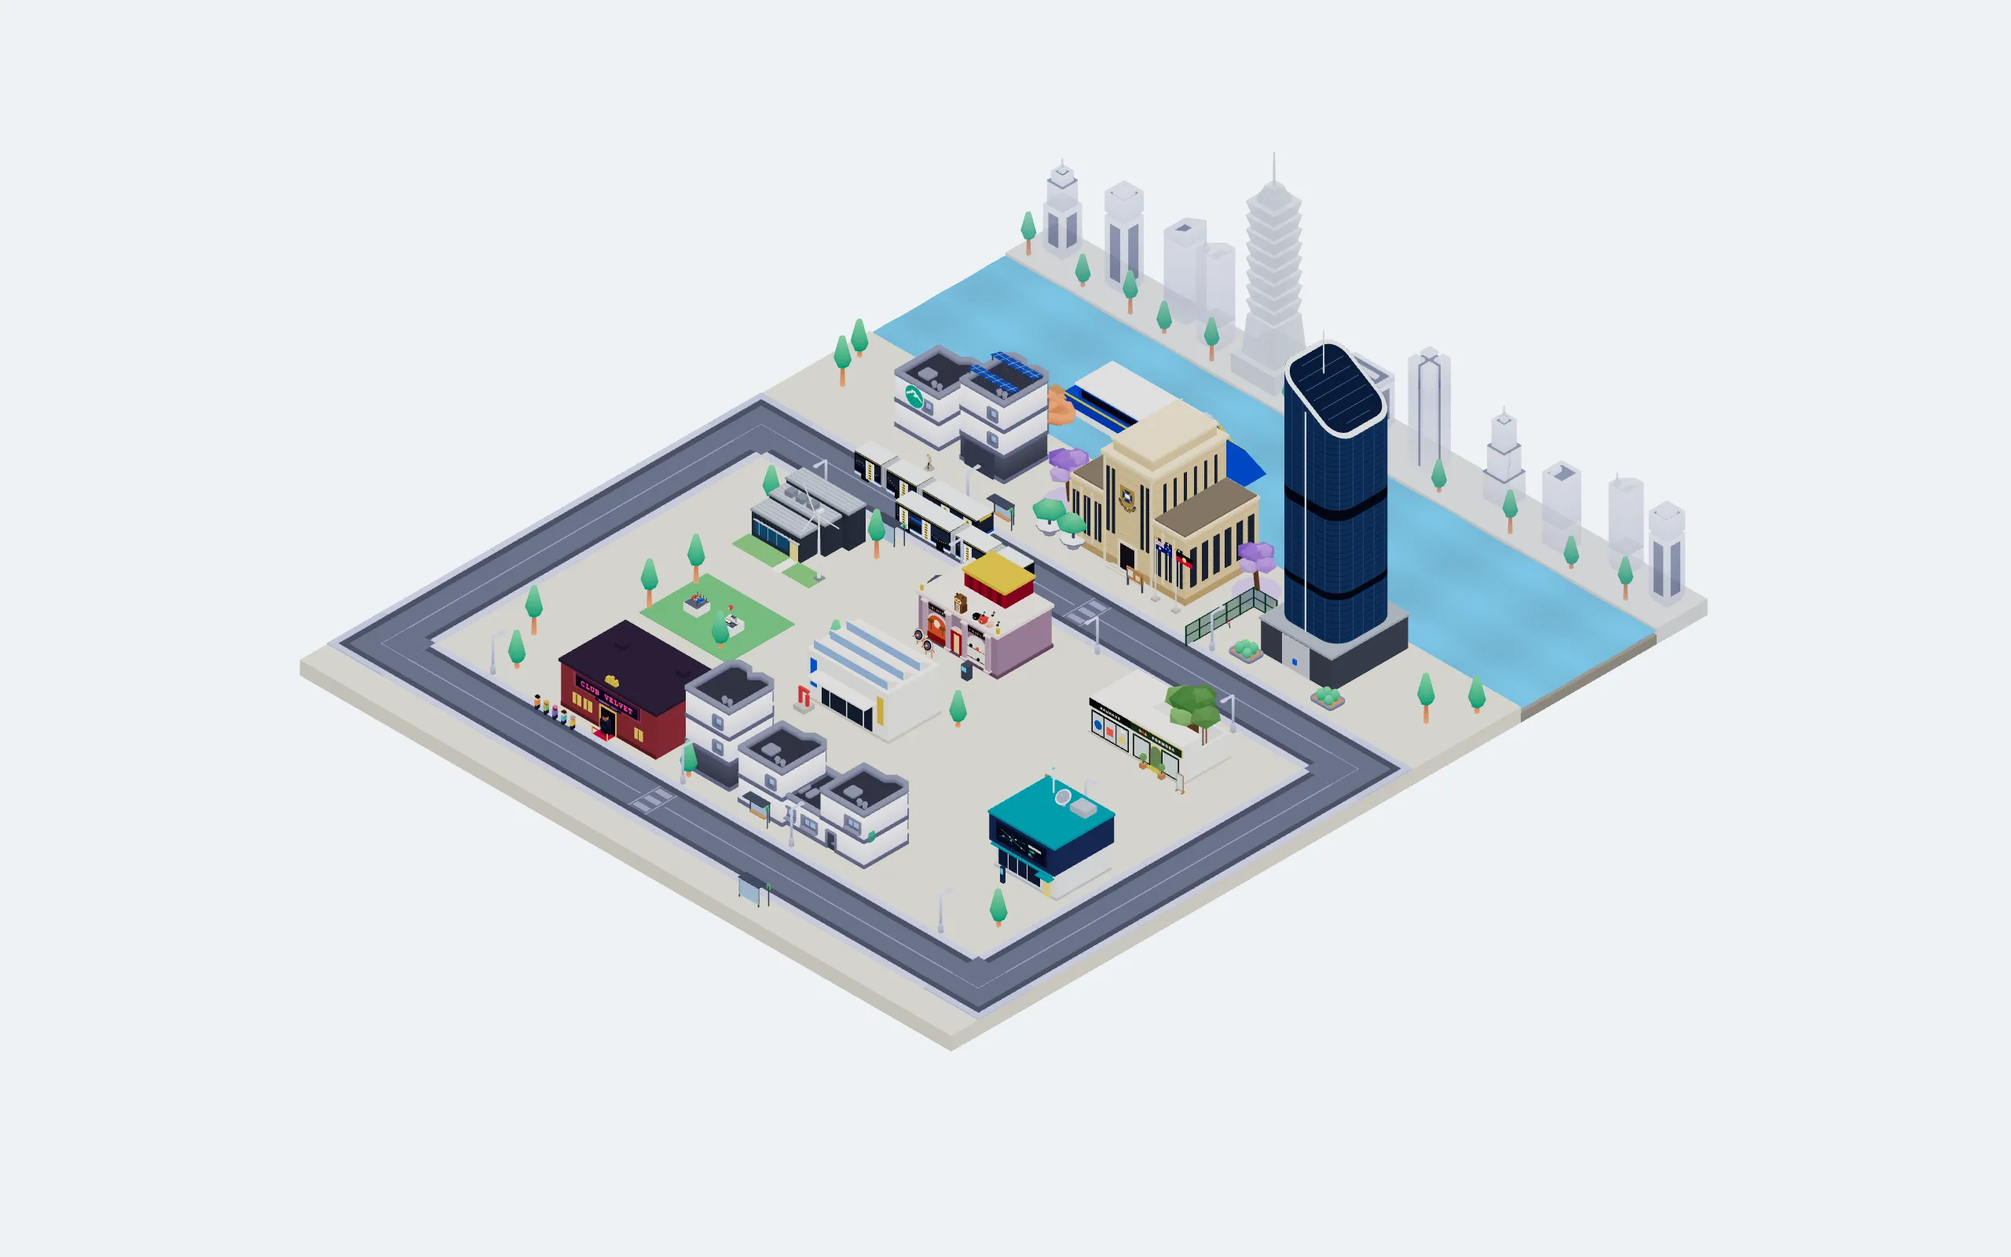
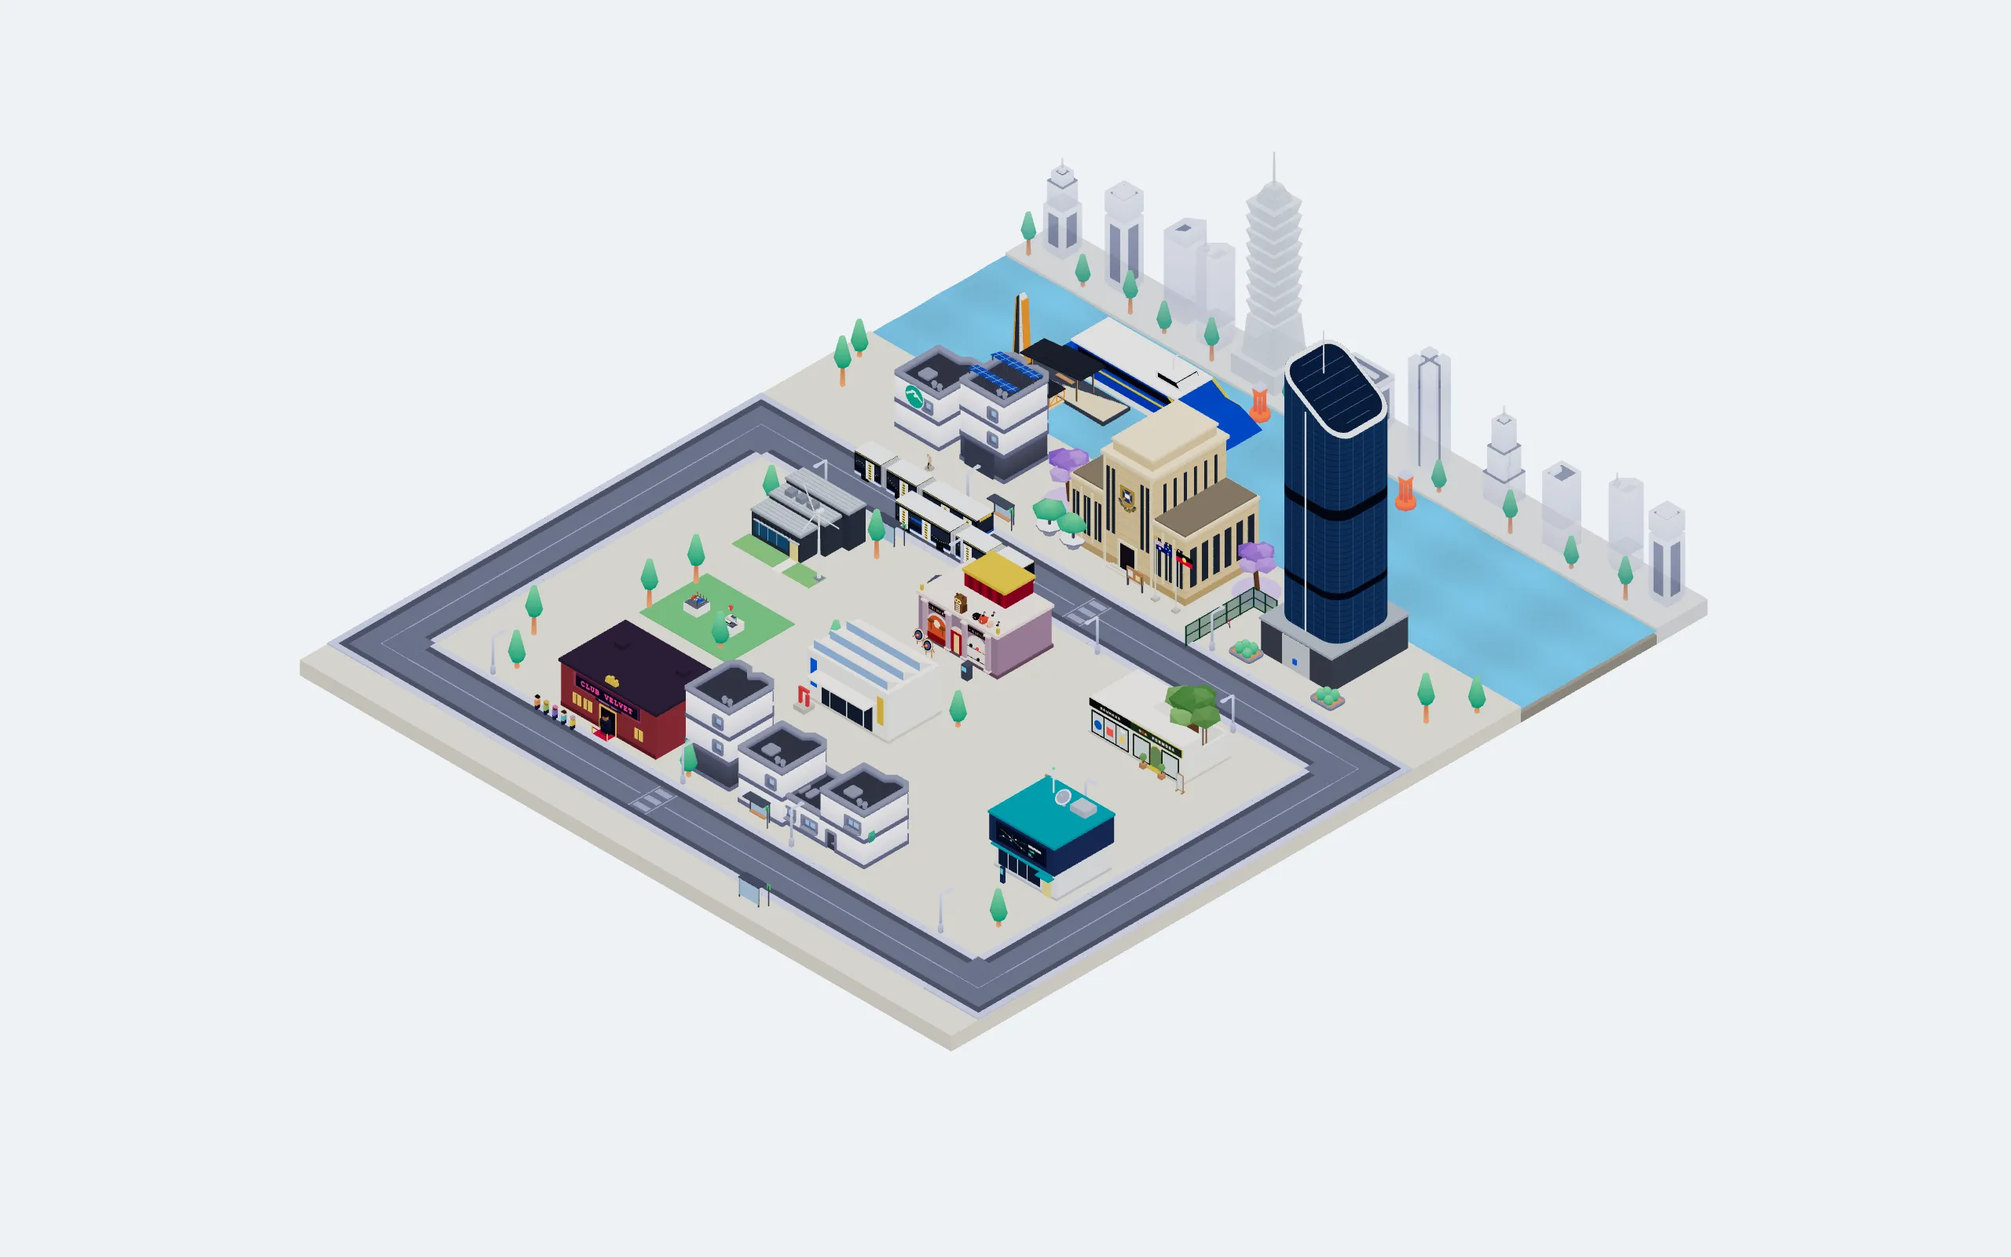
feat: replace the pier with a UQ St Lucia ferry terminal and stop the ferry sailing through it
The widened river left the pier tip inside the ferry's lane, so the hull passed through it on arrival. The terminal (gangway, pontoon, wing roof, lettered fin) is modelled on Steven's photograph, and the ferry now docks along its river side in a clear lane.

Changed region(s): [[0.5, 0.2188, 0.6562, 0.4062], [0.6875, 0.375, 0.7188, 0.4062]]

diff --git a/src/app/world/scene/FerryTerminal.tsx b/src/app/world/scene/FerryTerminal.tsx
@@ -1,0 +1,152 @@
+"use client";
+
+import { useMemo } from "react";
+import { BoxGeometry, CanvasTexture, ExtrudeGeometry, MeshBasicMaterial, SRGBColorSpace, Shape, Vector2, type BufferGeometry } from "three";
+import { TERMINAL } from "../placements";
+import { mergeParts, paint } from "./shading";
+import { withWorldShader } from "./worldShader";
+
+/**
+ * 1 · The ferry landing's terminal (WORLD.md §3): the UQ St Lucia CityCat terminal on the Brisbane
+ * River, from the photograph Steven chose on 26 Nov 2026, in place of the plain timber pier it was.
+ *
+ * What the photograph has, and so does this: a gangway from the bank, a truss of orange steel under
+ * a thin dark roof; a floating pontoon with a dark hull; a big dark wing of a roof over the pontoon,
+ * tilted up towards the downstream end, with a second plate on top of it; and a tall tapered fin at
+ * the far end, dark on one side and white on the other, with orange edges and the station's name in
+ * vertical letters ("UQ ST LUCIA"). Steven chose to show the name, as he chose the UQ crest (§4 rule 4).
+ *
+ * The ferry (Props.tsx) docks along the pontoon's river side, in a lane clear of it, so it no longer
+ * sails through anything. Steven can walk out along the gangway and onto the pontoon (walk.ts).
+ *
+ * Draw calls: one merged static mesh and the fin's lettering (on both faces).
+ */
+
+const C = {
+    hull: "#454b58",
+    deck: "#d9c9a8",
+    steel: "#ee8a2c",
+    roof: "#2b303b",
+    post: "#4b5161",
+    dark: "#3b414d",
+    light: "#eceff1",
+    wood: "#b9825a",
+};
+
+const box = (w: number, h: number, d: number, x: number, y: number, z: number, color: string) =>
+    paint(new BoxGeometry(w, h, d).translate(x, y, z), color);
+
+/** A profile in (x, y), extruded `depth` across z, centred on z = 0. */
+function prism(points: [number, number][], depth: number, color: string): BufferGeometry {
+    const geometry = new ExtrudeGeometry(new Shape(points.map(([x, y]) => new Vector2(x, y))), { depth, bevelEnabled: false });
+    geometry.translate(0, 0, -depth / 2);
+    return paint(geometry, color);
+}
+
+const FIN_H = 8.6;
+
+function parts(): BufferGeometry[] {
+    const { gangway: g, pontoon: p, pylon, roofX } = TERMINAL;
+    const out: BufferGeometry[] = [];
+
+    // The pontoon: a dark hull and a pale timber deck set a little inside it.
+    const pw = p.maxX - p.minX;
+    const pd = p.maxZ - p.minZ;
+    const pcx = (p.minX + p.maxX) / 2;
+    const pcz = (p.minZ + p.maxZ) / 2;
+    out.push(box(pw, 0.55, pd, pcx, -0.225, pcz, C.hull));
+    out.push(box(pw - 0.3, 0.1, pd - 0.3, pcx, 0, pcz, C.deck));
+
+    // The gangway from the bank: a deck, two steel trusses and a thin dark roof over them.
+    const len = g.maxZ - g.minZ;
+    const gcz = (g.minZ + g.maxZ) / 2;
+    out.push(box(g.w, 0.2, len, g.x, -0.05, gcz, C.deck));
+    const bays = 5;
+    const bay = len / bays;
+    for (const side of [-1, 1]) {
+        const tx = g.x + side * (g.w / 2 - 0.05);
+        out.push(box(0.1, 0.1, len, tx, 1.45, gcz, C.steel));
+        out.push(box(0.1, 0.1, len, tx, 0.3, gcz, C.steel));
+        for (let i = 0; i <= bays; i++) out.push(box(0.08, 1.15, 0.08, tx, 0.875, g.minZ + i * bay, C.steel));
+        for (let i = 0; i < bays; i++) {
+            const dy = 1.15;
+            const angle = Math.atan(bay / dy) * (i % 2 ? -1 : 1);
+            const diagonal = new BoxGeometry(0.07, Math.hypot(bay, dy), 0.07).rotateX(angle).translate(tx, 0.875, g.minZ + (i + 0.5) * bay);
+            out.push(paint(diagonal, C.steel));
+        }
+    }
+    out.push(box(g.w + 0.3, 0.08, len + 0.1, g.x, 1.6, gcz, C.roof));
+
+    // The wing roof over the pontoon, rising towards +x, on four posts, with a second plate above it.
+    const tilt = 0.1;
+    const rz = pcz;
+    const roofY = 3.1;
+    out.push(paint(new BoxGeometry(9, 0.16, 3.6).rotateZ(tilt).translate(roofX, roofY, rz), C.roof));
+    out.push(paint(new BoxGeometry(5.6, 0.12, 3.2).rotateZ(0.05).translate(roofX + 1.6, roofY + 0.65, rz), C.roof));
+    for (const dx of [-1.4, 1.4]) out.push(box(0.1, 0.45, 0.1, roofX + dx + 1.6, roofY + 0.4, rz, C.post));
+    for (const px of [-3.3, 3.3]) {
+        const top = roofY + px * Math.tan(tilt) - 0.1;
+        for (const dz of [-1.2, 1.2]) {
+            out.push(box(0.12, top - 0.05, 0.12, roofX + px, 0.05 + (top - 0.05) / 2, rz + dz, C.post));
+            out.push(box(0.05, top - 0.05, 0.05, roofX + px + 0.1, 0.05 + (top - 0.05) / 2, rz + dz, C.steel));
+        }
+    }
+    // A bench under it, facing the river.
+    out.push(box(2.4, 0.08, 0.5, roofX, 0.5, rz - 0.4, C.wood));
+    out.push(box(2.4, 0.4, 0.5, roofX, 0.25, rz - 0.4, C.post));
+
+    // The fin: dark on the left, white on the right, orange edges, a slanted top.
+    const { x, z } = pylon;
+    const fin = (points: [number, number][], depth: number, color: string) => prism(points, depth, color).translate(x, 0.05, z);
+    out.push(fin([[-0.9, 0], [0, 0], [0, FIN_H], [-0.45, FIN_H - 0.6]], 0.8, C.dark));
+    out.push(fin([[0, 0], [0.9, 0], [0.45, FIN_H - 0.6], [0, FIN_H]], 0.8, C.light));
+    out.push(fin([[-0.95, 0], [-0.78, 0], [-0.38, FIN_H - 0.65], [-0.5, FIN_H - 0.55]], 0.9, C.steel));
+    out.push(fin([[0.78, 0], [0.95, 0], [0.55, FIN_H - 0.65], [0.38, FIN_H - 0.55]], 0.9, C.steel));
+    return out;
+}
+
+/** "UQ ST LUCIA", reading downwards, dark on transparent. */
+function lettering(): CanvasTexture {
+    const c = document.createElement("canvas");
+    c.width = 96;
+    c.height = 1024;
+    const g = c.getContext("2d")!;
+    g.translate(48, 512);
+    g.rotate(Math.PI / 2);
+    g.fillStyle = "#3a3f4b";
+    g.font = '700 58px ui-sans-serif, system-ui, "Helvetica Neue", Arial, sans-serif';
+    g.textAlign = "center";
+    g.textBaseline = "middle";
+    const text = "UQ ST LUCIA";
+    const spacing = 14;
+    const widths = [...text].map((ch) => g.measureText(ch).width);
+    let at = -(widths.reduce((a, b) => a + b, 0) + spacing * (text.length - 1)) / 2;
+    g.textAlign = "left";
+    [...text].forEach((ch, i) => {
+        g.fillText(ch, at, 0);
+        at += widths[i] + spacing;
+    });
+    const t = new CanvasTexture(c);
+    t.colorSpace = SRGBColorSpace;
+    t.anisotropy = 4;
+    return t;
+}
+
+export default function FerryTerminal() {
+    const statics = useMemo(() => mergeParts(parts()), []);
+    const material = useMemo(() => withWorldShader(new MeshBasicMaterial({ vertexColors: true })), []);
+    const letters = useMemo(() => withWorldShader(new MeshBasicMaterial({ map: lettering(), transparent: true, alphaTest: 0.3 })), []);
+    const { x, z } = TERMINAL.pylon;
+    return (
+        <>
+            <mesh geometry={statics} material={material} raycast={() => null} />
+            <mesh position={[x + 0.27, 4.35, z + 0.45]} material={letters} raycast={() => null}>
+                <planeGeometry args={[0.34, 3.6]} />
+            </mesh>
+            {/* The same name on the river side, for when the view is turned round: turned about the fin, it reads the right way. */}
+            <mesh position={[x - 0.27, 4.35, z - 0.45]} rotation-y={Math.PI} material={letters} raycast={() => null}>
+                <planeGeometry args={[0.34, 3.6]} />
+            </mesh>
+        </>
+    );
+}

diff --git a/src/app/world/scene/Props.tsx b/src/app/world/scene/Props.tsx
@@ -4,12 +4,12 @@ import { useMemo, useRef } from "react";
 import { useFrame } from "@react-three/fiber";
 import { BoxGeometry, Color, ExtrudeGeometry, MeshBasicMaterial, PlaneGeometry, Shape, Vector2, type BufferGeometry, type Group, type ShaderMaterial } from "three";
 import { withWorldShader } from "./worldShader";
-import { PIER, RACQUET } from "../placements";
+import { RACQUET, TERMINAL } from "../placements";
 import { RIVER, SLAB } from "../zones";
 import { mergeBoxes, mergeParts, paint, shadedBox, type BoxSpec } from "./shading";
 
 /**
- * Everything the kits don't have (WORLD.md §6): the river, pier, ferry, shutter, frosted glass,
+ * Everything the kits don't have (WORLD.md §6): the river, ferry, shutter, frosted glass,
  * arcade cabinet, noticeboards and plinths. The Formosa Bauhaus shopfront, which
  * replaced the building site, has its own file (Formosa.tsx). All box-level,
  * coloured from the palette below, shaded through vertex colours, and unlit.
@@ -49,17 +49,6 @@ export default function Props({ still }: { still: boolean }) {
 
 const box = (at: BoxSpec["at"], size: BoxSpec["size"], color: string, rotY?: number): BoxSpec => ({ at, size, color, rotY });
 
-function pierBoxes(): BoxSpec[] {
-    const len = PIER.maxZ - PIER.minZ;
-    const cz = (PIER.minZ + PIER.maxZ) / 2;
-    const out = [box([PIER.x, -0.05, cz], [PIER.w, 0.3, len], PALETTE.wood)];
-    for (const z of [PIER.minZ + 0.3, cz, PIER.maxZ - 0.6]) {
-        out.push(box([PIER.x - PIER.w / 2 + 0.2, -0.6, z], [0.3, 1.2, 0.3], PALETTE.slate));
-        out.push(box([PIER.x + PIER.w / 2 - 0.2, -0.6, z], [0.3, 1.2, 0.3], PALETTE.slate));
-    }
-    return out;
-}
-
 function noticeboard(x: number, z: number, wide = false): BoxSpec[] {
     const w = wide ? 4.2 : 2.4;
     return [
@@ -74,7 +63,6 @@ function noticeboard(x: number, z: number, wide = false): BoxSpec[] {
 const ARCADE = { x: 3.5, z: 13.2 };
 
 const STATIC_BOXES: BoxSpec[] = [
-    ...pierBoxes(),
     // 1 · StarLens: a shutter pulled down over the front (§4: confidential stays closed).
     box([-22, 1.6, -14.15], [4.2, 3.2, 0.25], PALETTE.slate),
     // 3 · Finance Forms: the padlock on the frosted door (the glass itself is translucent, below).
@@ -131,8 +119,8 @@ function River({ still }: { still: boolean }) {
 
 /* ---------------------------------------------------------------- ferry */
 
-/** One crossing every 30 s (§6): in from the west, 8 s at the pier, out to the east. */
-const FERRY_LANE_Z = -31.5;
+/** One crossing every 30 s (§6): in from the west, 8 s at the terminal, out to the east. */
+const FERRY_LANE_Z = TERMINAL.lane;
 const CYCLE = 30;
 const DOCKED = 10;
 
@@ -184,7 +172,7 @@ function cityCat(): BufferGeometry {
 
 function Ferry({ still }: { still: boolean }) {
     const ref = useRef<Group>(null);
-    const t = useRef(DOCKED); // start at the pier, so the first frame shows a docked ferry
+    const t = useRef(DOCKED); // start at the terminal, so the first frame shows a docked ferry
     const geo = useMemo(() => cityCat(), []);
     useFrame((_, dt) => {
         if (!ref.current) return;
@@ -201,9 +189,9 @@ function Ferry({ still }: { still: boolean }) {
 }
 
 function ferryX(t: number): number {
-    const dock = PIER.x + PIER.w / 2 + 12.4; // stern alongside the pier's east side
+    const dock = TERMINAL.dockX; // alongside the terminal's pontoon, on its river side
     if (t < 8) return lerp(-60, dock, smooth(t / 8)); // arriving
-    if (t < 16) return dock; // at the pier
+    if (t < 16) return dock; // at the terminal
     if (t < 26) return lerp(dock, 60, smooth((t - 16) / 10)); // leaving
     return 60; // off-stage until the next crossing
 }

diff --git a/src/app/world/placements.ts b/src/app/world/placements.ts
@@ -52,9 +52,9 @@ export const PLACEMENTS: Placement[] = [
     // 1 · Ferry landing: E.SUN (its sign is in Landmarks) and StarLens (shuttered, see Props).
     { model: "building-c", x: -31, z: -18, solid: true },
     { model: "building-a", x: -22, z: -18, solid: true },
-    { model: "boat-row-small", x: -23.4, z: -26.5, rot: 1, scale: WATER_SCALE, solid: false },
-    { model: "buoy", x: -8, z: -33.5, scale: WATER_SCALE, solid: false },
-    { model: "buoy", x: 14, z: -35, scale: WATER_SCALE, solid: false },
+    { model: "boat-row-small", x: -9, z: -27, rot: 1, scale: WATER_SCALE, solid: false },
+    { model: "buoy", x: -8, z: -41.5, scale: WATER_SCALE, solid: false },
+    { model: "buoy", x: 14, z: -41, scale: WATER_SCALE, solid: false },
 
     // 2 · UQ corner, with the EventNow stall out front (live, so open and lit, §4).
     // The sandstone building is hand-made (GreatCourt.tsx), in place of Kenney's building-j.
@@ -152,8 +152,21 @@ export const SKYLINE: Placement[] = [
  */
 export const RACQUET = { x: 16.5, z: -12.6 };
 
-/** Areas Steven can stand on, beyond the main walkable rectangle: the pier. */
-export const PIER = { x: -26, minZ: -30.8, maxZ: -23.2, w: 3 };
+/**
+ * The ferry terminal (scene/FerryTerminal.tsx), where the plain pier was until 26 Nov 2026: a gangway
+ * from the bank out to a floating pontoon, with a wing roof and a fin at the pontoon's west end.
+ * Steven can walk on the gangway and the pontoon (walk.ts). The ferry docks on the pontoon's river
+ * side: `lane` is its centreline, clear of the pontoon whose edge is at minZ, and `dockX` is where its
+ * middle stops. Metres.
+ */
+export const TERMINAL = {
+    gangway: { x: -26, w: 2.6, minZ: -29.4, maxZ: -24 },
+    pontoon: { minX: -34, maxX: -19, minZ: -33.4, maxZ: -29.4 },
+    pylon: { x: -33, z: -31.4 },
+    roofX: -27,
+    lane: -36.8,
+    dockX: -18,
+};
 
 /** Hand-made solids (metres, XZ footprint), so Steven walks round them. Built in Props.tsx. */
 export const PROP_SOLIDS: { x: number; z: number; w: number; d: number }[] = [
@@ -172,6 +185,9 @@ export const PROP_SOLIDS: { x: number; z: number; w: number; d: number }[] = [
     { x: -24.1, z: 43.5, w: 1.2, d: 2 }, // the dumpster, and the cat on it
     ...[-24.2, -22.9, -21.6, -20.3, -19].map((x) => ({ x, z: 48.8, w: 0.7, d: 0.6 })), // the queue, at its start
     { x: 4.5, z: -10.6, w: 2.6, d: 0.6 }, // volunteer noticeboard
+    { x: -33, z: -31.4, w: 1.9, d: 1.1 }, // the ferry terminal's fin (FerryTerminal.tsx)
+    ...[-30.3, -23.7].flatMap((x) => [-30.2, -32.6].map((z) => ({ x, z, w: 0.3, d: 0.3 }))), // its roof posts
+    { x: -27, z: -31.8, w: 2.5, d: 0.6 }, // and the bench
     { x: 3.5, z: 13.2, w: 1, d: 1 }, // arcade cabinet
     { x: 0, z: 7, w: 11.8, d: 8.4 }, // Skyveil's museum and theatre (SkyveilMuseum.tsx)
     { x: -4.1, z: 12.6, w: 1.2, d: 1 }, // its two archery targets

diff --git a/src/app/world/scene/walk.ts b/src/app/world/scene/walk.ts
@@ -1,16 +1,19 @@
-import { PIER } from "../placements";
+import { TERMINAL } from "../placements";
 import { WALKABLE } from "../zones";
 
 /** A rectangle on the ground, metres. */
 export type GroundRect = { minX: number; maxX: number; minZ: number; maxZ: number };
 
 /**
- * The ground Steven may stand on: the main rectangle plus the pier. What stands on it, and the
+ * The ground Steven may stand on: the main rectangle plus the ferry terminal's gangway and pontoon. What stands on it, and the
  * routes round it, are nav.ts's job.
  */
 export const AREAS: GroundRect[] = [
     WALKABLE,
-    { minX: PIER.x - PIER.w / 2 + 0.3, maxX: PIER.x + PIER.w / 2 - 0.3, minZ: PIER.minZ + 0.3, maxZ: WALKABLE.minZ + 0.01 },
+    // The gangway, inside its trusses, from the bank out to the pontoon.
+    { minX: TERMINAL.gangway.x - TERMINAL.gangway.w / 2 + 0.4, maxX: TERMINAL.gangway.x + TERMINAL.gangway.w / 2 - 0.4, minZ: TERMINAL.pontoon.maxZ - 0.5, maxZ: WALKABLE.minZ + 0.01 },
+    // The pontoon's deck.
+    { minX: TERMINAL.pontoon.minX + 0.4, maxX: TERMINAL.pontoon.maxX - 0.4, minZ: TERMINAL.pontoon.minZ + 0.4, maxZ: TERMINAL.pontoon.maxZ },
 ];
 
 /** The nearest point on the ground, for a tap that lands in the river or off the slab. */

diff --git a/src/app/world/scene/Stage.tsx b/src/app/world/scene/Stage.tsx
@@ -9,6 +9,7 @@ import Formosa from "./Formosa";
 import ClubVelvet from "./ClubVelvet";
 import ControlCentre from "./ControlCentre";
 import SkyveilMuseum from "./SkyveilMuseum";
+import FerryTerminal from "./FerryTerminal";
 import DataCentre from "./DataCentre";
 import GovTower from "./GovTower";
 import GreatCourt from "./GreatCourt";
@@ -106,6 +107,7 @@ export default function Stage({
             <DataCentre still={still} />
             <ControlCentre still={still} />
             <SkyveilMuseum still={still} />
+            <FerryTerminal />
 
             {OBJECTS.map((object) => (
                 <ObjectHit key={object.id} object={object} onObject={onObject} onHover={onHover} />

diff --git a/src/app/world/objects.ts b/src/app/world/objects.ts
@@ -23,7 +23,7 @@ const ALL_OBJECTS: WorldObject[] = [
     // 1 · Ferry landing
     { id: "esun", x: -31, z: -18, w: 7.2, d: 7.4, h: 9 },
     { id: "starlens", x: -22, z: -18, w: 7.2, d: 7.8, h: 10.5 },
-    { id: "crossing", x: -26, z: -25.8, w: 3.4, d: 5.6, h: 2 },
+    { id: "crossing", x: -26.5, z: -28.5, w: 16, d: 10.4, h: 8 },
     // 2 · UQ corner
     { id: "degree", x: 2, z: -17.5, w: 16.8, d: 10.9, h: 15.4 },
     { id: "timetable", x: 4.5, z: -10.6, w: 2.8, d: 1, h: 2.6 },

diff --git a/WORLD.md b/WORLD.md
@@ -1255,3 +1255,21 @@ all of them before ever reaching `/world`.
 - **Skyveil's wording (26 Nov 2026):** the card, `/about` and the CV now say Veilcore is a team build and
   that Steven worked mostly on Cradle and Archery. No per-mode credit and no line counts; nothing is said
   about the parts he didn't work on.
+
+### The ferry terminal (26 Nov 2026)
+
+- **A bug: the ferry sailed through the pier.** The widened river left the pier's tip (z -30.8) inside the
+  ferry's lane (z -31.5, beam ±2.9 m), so on arrival from the west the hull passed through the pier's
+  timber deck, and the Kenney rowing boat (orange) sat in the way beside it. The buoys at z -33.5 and
+  -35 were in the lane too.
+- **The pier is a ferry terminal now (`scene/FerryTerminal.tsx`), modelled on Steven's photograph of the
+  UQ St Lucia terminal:** a gangway from the bank (orange steel trusses under a thin dark roof), a
+  floating pontoon with a dark hull and timber deck, a dark wing roof tilted up towards the east with a
+  second plate over it, on posts, with a bench under it, and a tall tapered fin at the west end, dark on
+  one side and white on the other, orange edges, "UQ ST LUCIA" in vertical letters on both faces.
+  Steven chose to show the name (§4 rule 4).
+- **Layout (`TERMINAL` in `placements.ts`, replacing `PIER`):** the pontoon lies along the bank at
+  z -33.4 to -29.4; the ferry's lane is z -36.8, so it docks along the pontoon's river side
+  (`dockX` -18) with 0.46 m to spare and never crosses anything. The buoys moved to z -41.5 and -41 and the
+  rowing boat to (-9, -27). Steven can walk the gangway and the pontoon (`walk.ts`); the fin, the roof
+  posts and the bench are walk-grid solids. The crossing card's hit area covers the whole terminal.
